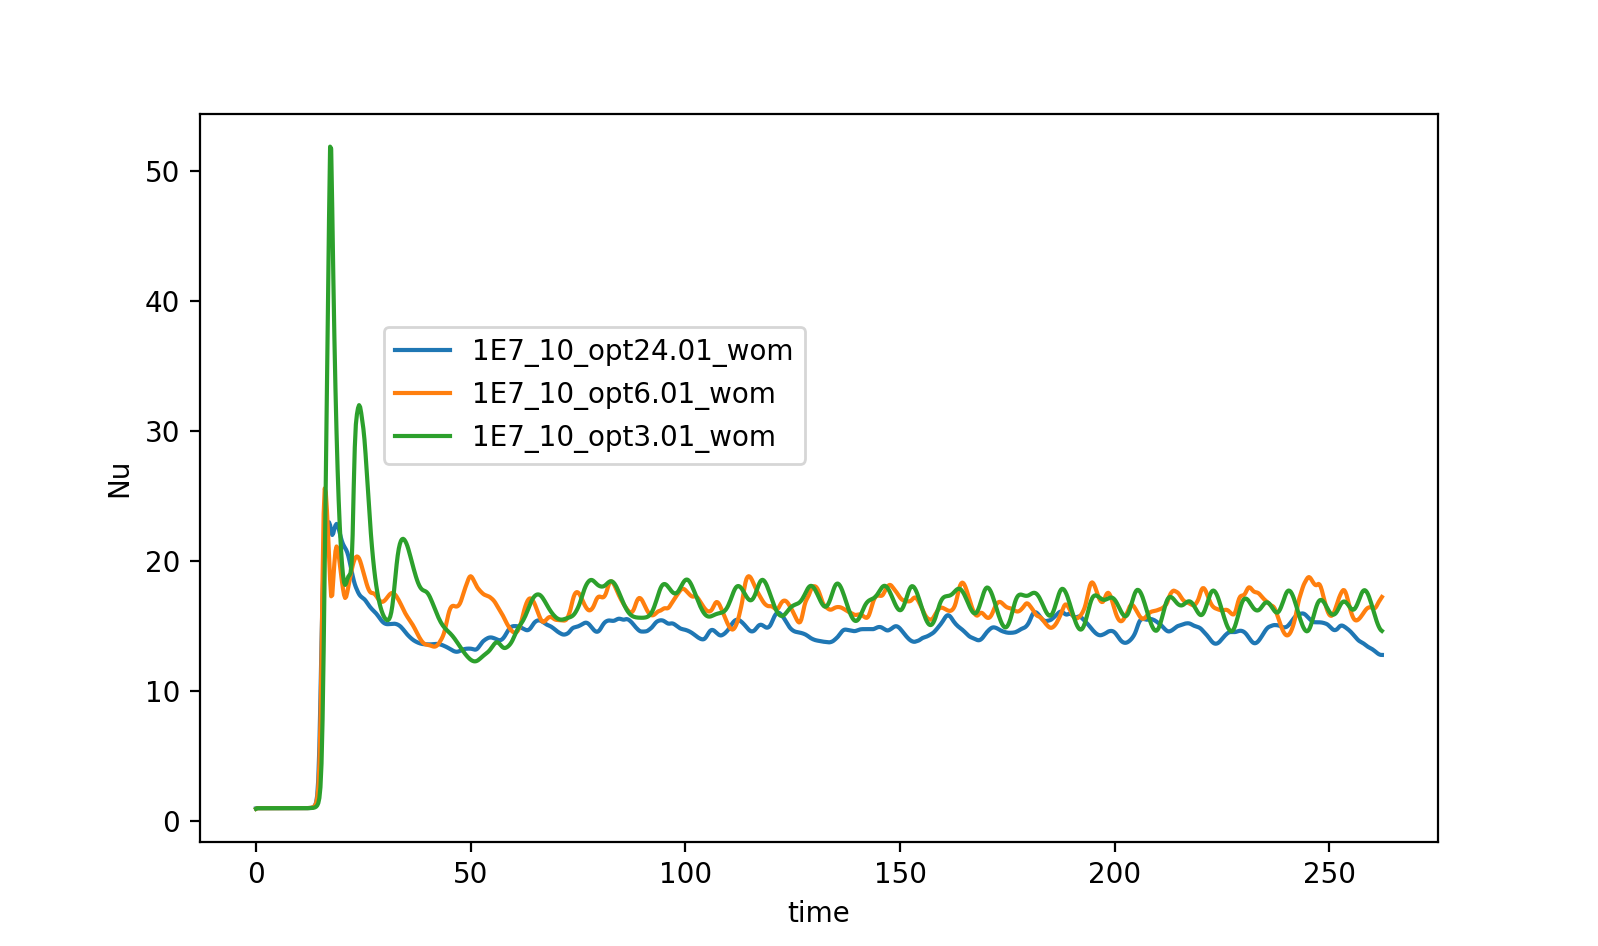
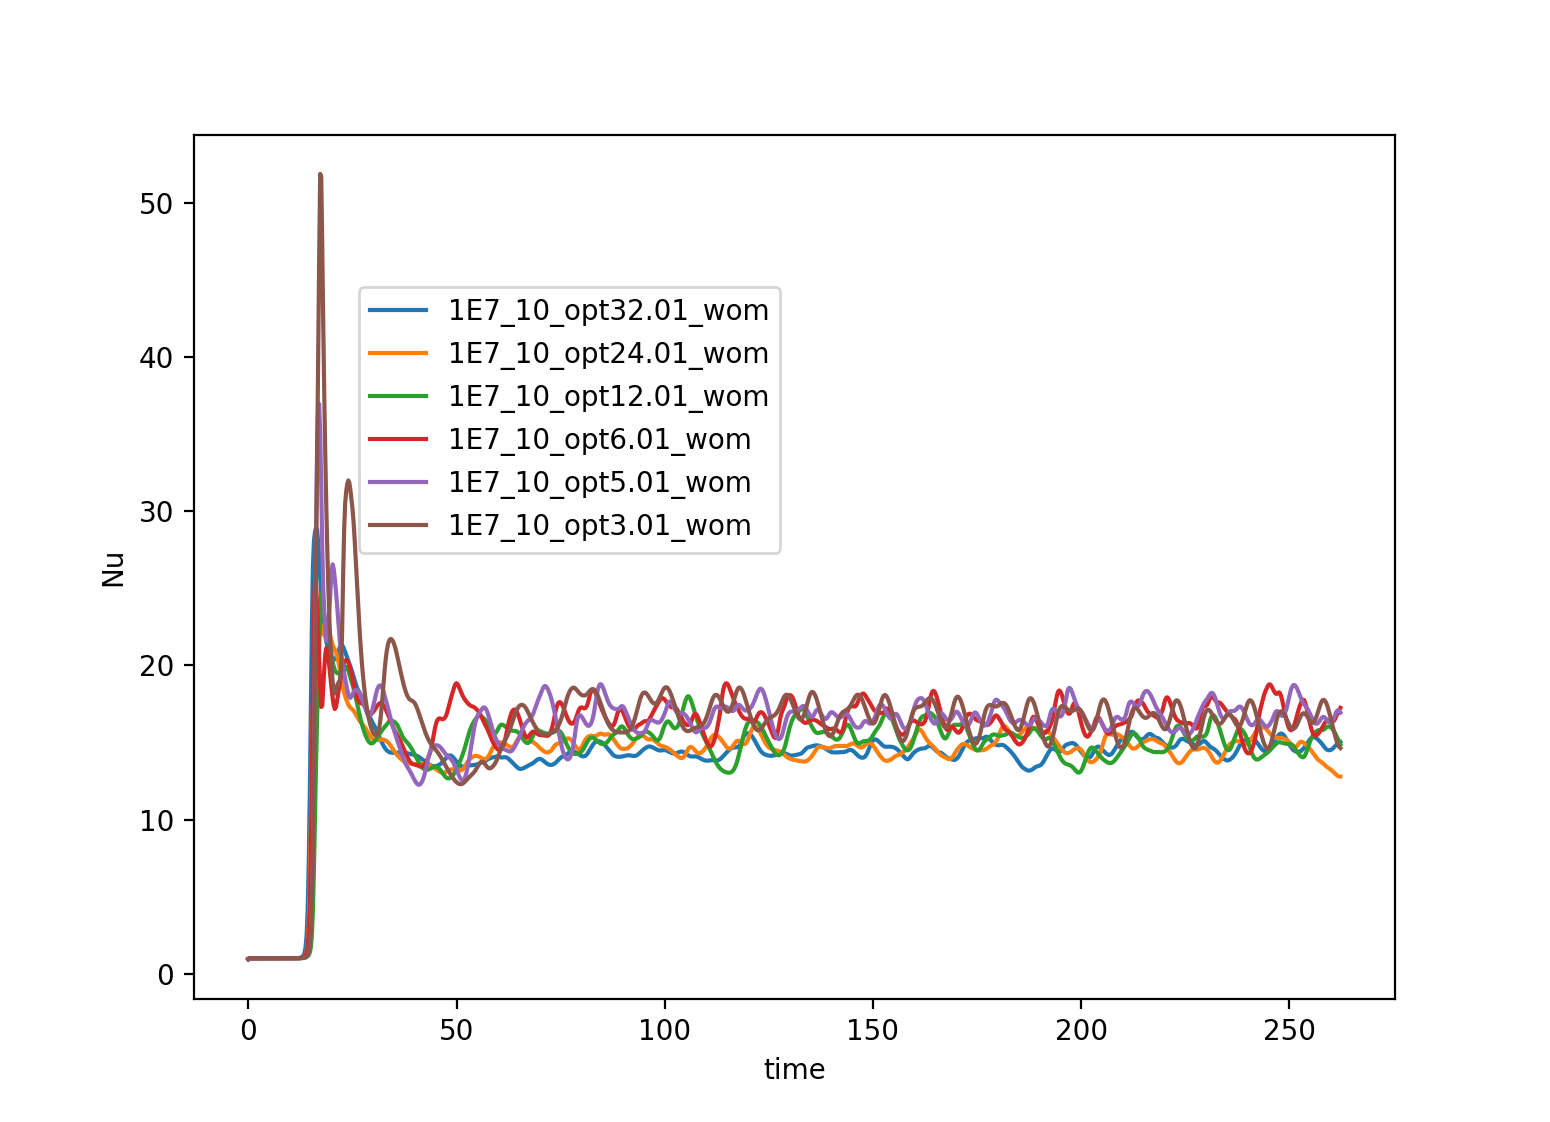
More box size cases added for Ra = 1E7 and Pr = 4/10

diff --git a/cheb_code_doc.tex b/cheb_code_doc.tex
@@ -339,13 +339,13 @@
       Figure 6 shows the variation of $Nu$ with time for the different cases and the variation in average $Nu$ with box size is shown in Figure 7. These clearly show that the average Nusselt number keeps dropping with increase in box size. Also note from Figure 6 that the amplitude of oscillations also drops with increase in box size. This may be related to the increased size of the plumes/coherent structures in larger boxes.
       
       \begin{figure}[!htb]
-      	\includegraphics[width=\linewidth]{Nu_1E7_4_boxes.png}
+      	\includegraphics[width=\linewidth]{Nu_1E7_4.png}
       	\caption{$Nu$ variation with time at $Pr = 4, Ra = 1E7$ in various box sizes.}
       	\label{fig:fig6}
       \end{figure} 
       
       \begin{figure}[!htb]
-      	\includegraphics[width=\linewidth]{Nu_size.png}
+      	\includegraphics[width=\linewidth]{Nu_avg_1E7_4.png}
       	\caption{$Nu_{avg}$ variation with box size for $Pr = 4, Ra = 1E7$.}
       	\label{fig:fig7}
       \end{figure} 
@@ -385,19 +385,19 @@
 A comparison of the energy spectra for the various cases are shown in Figures 13-15. The energy spectra is plotted along $y = 0$. Note that the length scale corresponding to the largest energy in all 3 cases keeps decreasing with increase in box size.
 
   \begin{figure}[!htb]
-  	\includegraphics[width=\linewidth]{1E7_4_ThE.png}
+  	\includegraphics[width=\linewidth]{ThE_1E7_4.png}
   	\caption{ Thermal energy spectra at $Ra = 1E7, Pr =4$ along $y = 0$}
   	\label{fig:fig13}
   \end{figure}
 
 \begin{figure}[!htb]
-	\includegraphics[width=\linewidth]{1E7_4_KE.png}
+	\includegraphics[width=\linewidth]{KE_1E7_4.png}
 	\caption{ Kinetic energy spectra at $Ra = 1E7, Pr =4$ along $y = 0$}
 	\label{fig:fig14}
 \end{figure}
 
 \begin{figure}[!htb]
-	\includegraphics[width=\linewidth]{1E7_4_TE.png}
+	\includegraphics[width=\linewidth]{TE_1E7_4.png}
 	\caption{ Total energy spectra at $Ra = 1E7, Pr =4$ along $y = 0$}
 	\label{fig:fig15}
 \end{figure}
